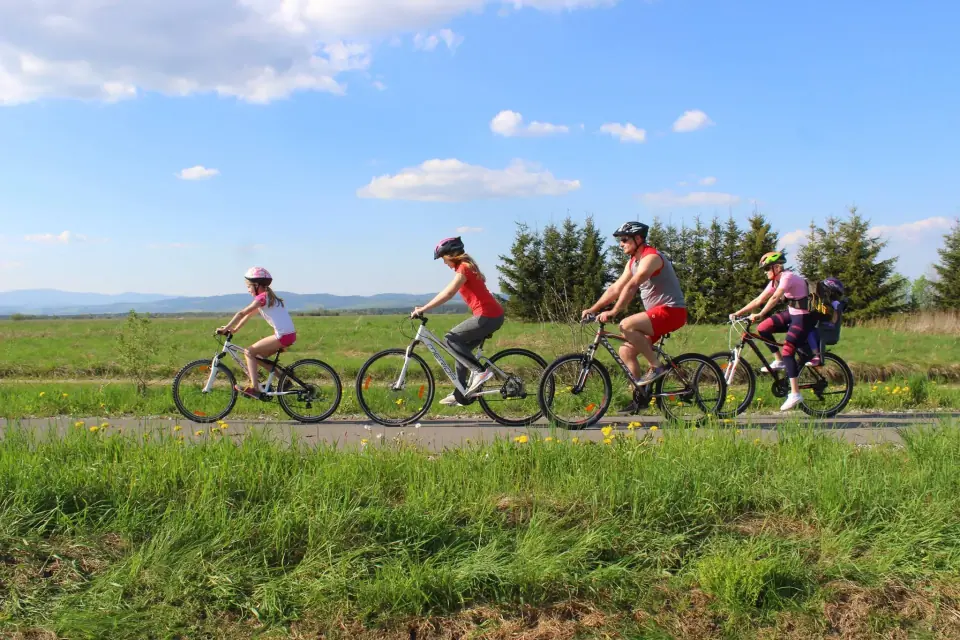
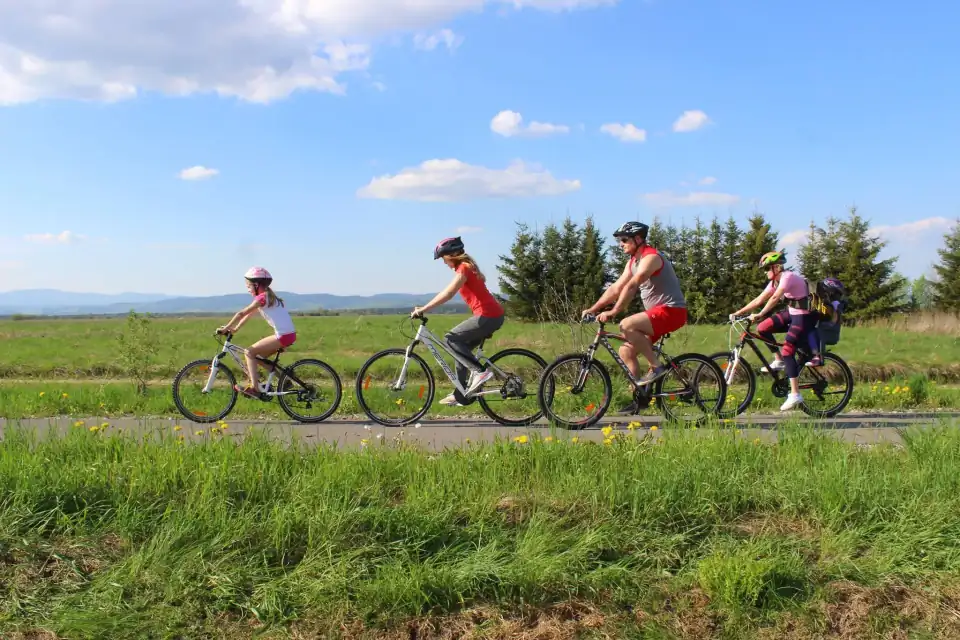
perf: aggressive image compression + Caveat Brush subsetting
- hero-mobile.webp 93→72 KB (q55), hero.webp 128→80 KB (1024w q60)
- logo-nav.webp 9 KB for nav (was loading 24 KB logo at 159x84)
- logo-sm.webp 12→7.5 KB (resize 280w)
- Split fonts URL: Caveat Brush via &text= (drops ~125 KB)

diff --git a/index.html b/index.html
@@ -21,8 +21,12 @@
 
     <link rel="preconnect" href="https://fonts.googleapis.com" />
     <link rel="preconnect" href="https://fonts.gstatic.com" crossorigin />
-    <link rel="preload" as="style" href="https://fonts.googleapis.com/css2?family=Caveat+Brush&family=Caveat&family=Playfair+Display:wght@400;500;600&family=Inter:wght@300;400;500;600;700&display=swap" onload="this.rel='stylesheet'" />
-    <noscript><link rel="stylesheet" href="https://fonts.googleapis.com/css2?family=Caveat+Brush&family=Caveat&family=Playfair+Display:wght@400;500;600&family=Inter:wght@300;400;500;600;700&display=swap" /></noscript>
+    <link rel="preload" as="style" href="https://fonts.googleapis.com/css2?family=Caveat+Brush&text=Wypo%C5%BCyczalnia%20Rower%C3%B3w%20Podhale&display=swap" onload="this.rel='stylesheet'" />
+    <link rel="preload" as="style" href="https://fonts.googleapis.com/css2?family=Caveat&family=Playfair+Display:wght@400;500;600&family=Inter:wght@300;400;500;600;700&display=swap" onload="this.rel='stylesheet'" />
+    <noscript>
+      <link rel="stylesheet" href="https://fonts.googleapis.com/css2?family=Caveat+Brush&text=Wypo%C5%BCyczalnia%20Rower%C3%B3w%20Podhale&display=swap" />
+      <link rel="stylesheet" href="https://fonts.googleapis.com/css2?family=Caveat&family=Playfair+Display:wght@400;500;600&family=Inter:wght@300;400;500;600;700&display=swap" />
+    </noscript>
 
     <script type="application/ld+json">
     {

diff --git a/src/components/Nav.jsx b/src/components/Nav.jsx
@@ -64,7 +64,7 @@ export function Nav() {
       <nav className="sticky top-0 z-50 bg-white/95 backdrop-blur border-b border-black/5">
         <Container className="h-[72px] flex items-center justify-between">
           <Link href="/" className="brand-mark" aria-label="Wypożyczalnia Rowerów u Bachledy">
-            <img src="/logo.webp" alt="Logo Wypożyczalnia Rowerów u Bachledy" width={600} height={316} />
+            <img src="/logo-nav.webp" alt="Logo Wypożyczalnia Rowerów u Bachledy" width={280} height={147} />
           </Link>
 
           <div className="hidden md:flex items-center gap-10">
@@ -105,7 +105,7 @@ export function Nav() {
               className="brand-mark"
               aria-label="Wypożyczalnia Rowerów u Bachledy — strona główna"
             >
-              <img src="/logo.webp" alt="Logo Wypożyczalnia Rowerów u Bachledy" width={600} height={316} />
+              <img src="/logo-nav.webp" alt="Logo Wypożyczalnia Rowerów u Bachledy" width={280} height={147} />
             </Link>
             <button
               type="button"

diff --git a/src/components/Footer.jsx b/src/components/Footer.jsx
@@ -11,7 +11,7 @@ export function Footer() {
         <div className="grid grid-cols-1 md:grid-cols-3 gap-12 md:gap-16">
           <div>
             <Link href="/" className="inline-block" aria-label="Wypożyczalnia Rowerów u Bachledy — strona główna">
-              <img src="/logo.webp" alt="Logo Wypożyczalnia Rowerów u Bachledy" width={600} height={316} loading="lazy" className="h-20 w-auto" />
+              <img src="/logo-nav.webp" alt="Logo Wypożyczalnia Rowerów u Bachledy" width={280} height={147} loading="lazy" className="h-20 w-auto" />
             </Link>
             <h3 className="font-serif-display text-[20px] leading-[1.25] mt-5">
               Wypożyczalnia Rowerów u Bachledy
